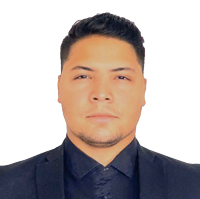
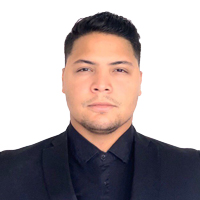
Changing Eberths photo

diff --git a/index.html b/index.html
@@ -179,7 +179,7 @@
       </div>
       <div class="member inversor myAnimatable" my-animation="bounce left">
         <h2>Eberths Perozo</h2>
-        <img data-src="img/Eberths-PerozoSF2.jpg" class="lazyload" alt="Eberths Perozo">
+        <img data-src="img/Eberths-PerozoSF.jpg" class="lazyload" alt="Eberths Perozo">
         <h2 class="bold">CEO</h2>
         <button class="button biography">Experiencia</button>
         <!-- <button class="button biography">Carta de Bienvenida</button> -->
